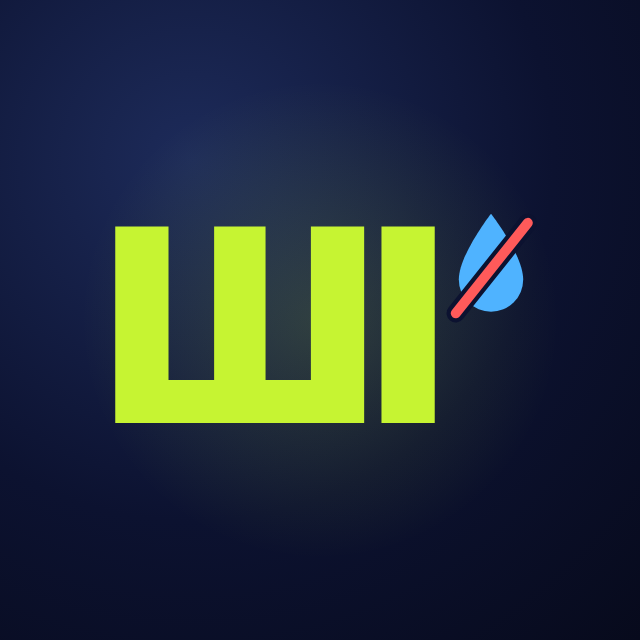
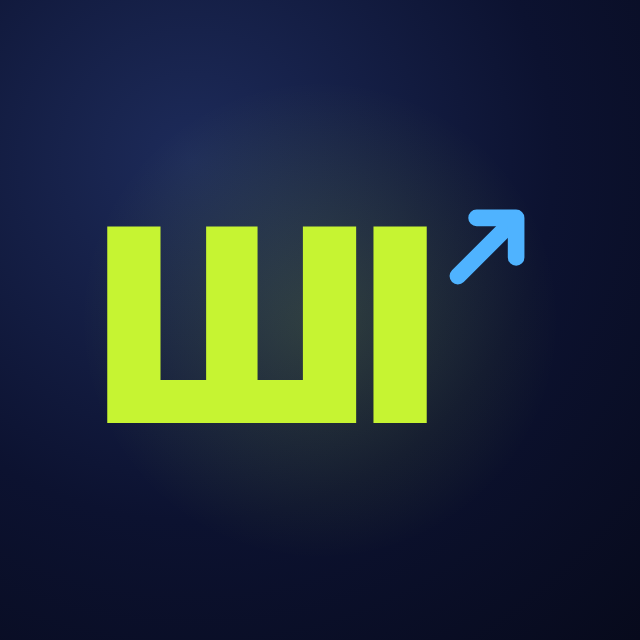
tg_channel: rename to «ШІ на старті», delete channel notices, neutral author voice
- «ШІ без води» is taken six times over (a Ukrainian channel of that exact name and five
  Russian look-alikes); «ШІ на старті» is free and fits AI for study and the first job.
  New avatar: «ШІ» with a start arrow.
- The bot now reads channel posts too and deletes the notices Telegram adds when it renames
  the channel, changes the photo or pins a post.
- The post check flags the author's gendered past tense («я прогнав») and «в мене теж»
  outside prompts and quoted results; posts use «🧪 Прогін» / «🧪 Результат» instead.

Claude-Session: https://claude.ai/code/session_01X4qXufjmXj39zcBvGQ1f5r

diff --git a/tg_content/avatar.html b/tg_content/avatar.html
@@ -3,15 +3,14 @@ html,body{margin:0;padding:0}
 .v{width:640px;height:640px;position:relative;overflow:hidden;font-family:'Inter';display:flex;align-items:center;justify-content:center;
  background:radial-gradient(circle at 30% 25%,#1d2b5a 0%,#0c1230 55%,#070a1c 100%);}
 .glow{position:absolute;inset:60px;border-radius:50%;background:radial-gradient(circle,rgba(198,244,50,.16),rgba(198,244,50,0) 65%)}
-.row{position:relative;display:flex;align-items:flex-start;gap:6px;margin-top:10px}
+.row{position:relative;display:flex;align-items:flex-start;gap:4px;margin-top:10px;margin-left:-6px}
 .t{font-weight:900;font-size:270px;letter-spacing:-8px;color:#c6f432;line-height:.74}
-.drop{width:92px;height:116px;margin-top:-18px}
+.arr{width:104px;height:104px;margin-top:-30px}
 </style></head><body><div class="v" id="v">
 <div class="glow"></div>
 <div class="row"><div class="t">ШІ</div>
-<svg class="drop" viewBox="0 0 120 150">
- <path d="M60 8 C60 8 18 62 18 94 a42 42 0 0 0 84 0 C102 62 60 8 60 8 Z" fill="#4fb3ff"/>
- <line x1="14" y1="138" x2="108" y2="20" stroke="#0c1230" stroke-width="24" stroke-linecap="round"/>
- <line x1="14" y1="138" x2="108" y2="20" stroke="#ff5a5a" stroke-width="13" stroke-linecap="round"/>
+<svg class="arr" viewBox="0 0 100 100">
+ <path d="M22 78 L74 26" stroke="#4fb3ff" stroke-width="16" stroke-linecap="round"/>
+ <path d="M40 22 L78 22 L78 60" fill="none" stroke="#4fb3ff" stroke-width="16" stroke-linecap="round" stroke-linejoin="round"/>
 </svg></div>
 </div></body></html>

diff --git a/tg_channel/bot.py b/tg_channel/bot.py
@@ -114,7 +114,7 @@ class Bot:
         self._replied: set[int] = set()              # one reply per chat per run, however many /start were sent
         try:
             updates = self.tg.call("getUpdates", offset=self.state["offset"], timeout=0,
-                                   allowed_updates=["message", "callback_query"])
+                                   allowed_updates=["message", "callback_query", "channel_post"])
         except TelegramError as e:
             self.report["errors"].append(str(e))
             return
@@ -125,6 +125,8 @@ class Bot:
                 self.on_button(u["callback_query"])
             elif "message" in u:
                 self.on_message(u["message"])
+            elif "channel_post" in u:
+                self.on_channel_post(u["channel_post"])
 
     def on_message(self, msg: dict) -> None:
         if (msg.get("chat") or {}).get("type") != "private" or not str(msg.get("text", "")).startswith(("/start", "/status")):
@@ -155,6 +157,18 @@ class Bot:
         else:
             text = "Це службовий бот каналу."
         self._quiet("sendMessage", chat_id=msg["chat"]["id"], text=text, parse_mode="HTML")
+
+    SERVICE = ("new_chat_title", "new_chat_photo", "delete_chat_photo", "pinned_message")
+
+    def on_channel_post(self, post: dict) -> None:
+        """The notices Telegram adds when the bot renames the channel, changes its photo or pins a post: deleted, so
+        the channel's feed shows only posts."""
+        chat = post.get("chat") or {}
+        ours = chat.get("id") == self.state["channel"].get("id") or (
+            self.channel and f"@{chat.get('username', '')}".lower() == str(self.channel).lower())
+        if ours and any(k in post for k in self.SERVICE):
+            self._quiet("deleteMessage", chat_id=chat["id"], message_id=post.get("message_id"))
+            self.report.setdefault("deleted_notices", []).append(post.get("message_id"))
 
     def on_button(self, cq: dict) -> None:
         sender, data = (cq.get("from") or {}).get("id"), str(cq.get("data", ""))

diff --git a/tests/test_tg_channel.py b/tests/test_tg_channel.py
@@ -557,3 +557,27 @@ def test_snowball_follows_channels_the_seeds_link_to(tmp_path):
     names = [c["name"] for c in result["channels"]]
     assert names == ["aaaa", "bbbb", "popular"]                         # «single» is linked by one channel only
     assert result["channels"][2]["found_via"] == "linked by 2 studied channels"
+
+
+def test_author_voice_hints_are_caught_outside_prompts_and_quotes(tmp_path):
+    body = ("---\nrubric: prompt\n---\n<b>Промпт дня</b>\n\nЯ прогнав його на прикладі, і в мене теж вийшло.\n"
+            "<pre>Задай питання, на яке я відповів найслабше</pre>\n<blockquote>Я підготувала звіт</blockquote>\n"
+            "🧪 Прогін: перевіряю на трьох прикладах.\n#промпт\n")
+    _write(tmp_path, "0001-a.md", body)
+    problems = " | ".join(feed.load(tmp_path)[0].problems)
+    assert "«я прогнав»" in problems and "«в мене теж»" in problems
+    assert "відповів" not in problems and "підготувала" not in problems and "перевіряю" not in problems
+
+
+def test_rename_and_photo_notices_in_the_channel_are_deleted():
+    tg, state = FakeTG(), empty_state()
+    state["channel"] = {"ref": CHANNEL, "id": -100123}
+    tg.updates += [
+        {"update_id": 1, "channel_post": {"message_id": 7, "chat": {"id": -100123}, "new_chat_title": "Нова назва"}},
+        {"update_id": 2, "channel_post": {"message_id": 8, "chat": {"id": -100123}, "new_chat_photo": [{}]}},
+        {"update_id": 3, "channel_post": {"message_id": 9, "chat": {"id": -100123}, "text": "звичайний пост"}},
+        {"update_id": 4, "channel_post": {"message_id": 3, "chat": {"id": -100999}, "new_chat_title": "чужий"}},
+    ]
+    feed_bot(tg, state, []).run(utc("2026-11-13T08:00:00"), fetch)
+    assert [(p["chat_id"], p["message_id"]) for m, p in tg.calls if m == "deleteMessage"] == [(-100123, 7), (-100123, 8)]
+    assert state["offset"] == 5

diff --git a/tg_channel/feed.py b/tg_channel/feed.py
@@ -183,6 +183,17 @@ def _bare(chunk: str) -> list[str]:
     return out
 
 
+# The author's «я» in the past tense has a gender in Ukrainian («я прогнав / прогнала») and says who writes the channel;
+# so does «в мене теж». Prompts (<pre>) and quoted results (<blockquote>) speak for the reader or the example.
+AUTHOR_HINTS = re.compile(r"(?<![\w'ʼ])я\s+(?:[а-яіїєґʼ'-]+\s+)?[а-яіїєґʼ'-]{2,}(?:в|ла)(?![\w'ʼ])"
+                          r"|(?:в|у) мене теж|як і я(?![\w'ʼ])", re.I)
+
+
+def author_hints(text: str) -> list[str]:
+    own = re.sub(r"<(pre|blockquote)\b[^>]*>.*?</\1>", " ", text, flags=re.S | re.I)
+    return sorted({m[0].lower() for m in AUTHOR_HINTS.finditer(visible(own))})
+
+
 def check(post: Post) -> list[str]:
     out = []
     if post.rubric not in RUBRICS:
@@ -214,6 +225,8 @@ def check(post: Post) -> list[str]:
         out.append("empty post")
         return out
     out += html_problems(post.text)
+    out += [f"«{h}» tells who writes the channel: use «🧪 Прогін», «🧪 Результат» or the present tense"
+            for h in author_hints(post.text)]
     n = len(visible(post.text))
     if n > TEXT_MAX:
         out.append(f"too long: {n} characters, at most {TEXT_MAX}")

diff --git a/tg_content/posts/0009-interview-practice.md b/tg_content/posts/0009-interview-practice.md
@@ -14,11 +14,11 @@ rubric: career
 - Після 6 питань: 3 мої сильні сторони і 3 речі, які треба підтягнути.
 Почни з першого питання.</pre>
 
-<b>Що вийшло в мене</b> (Junior Python Developer, моя навмисно слабка відповідь: «не встигав, попросив ще два дні і доробив»):
+<b>🧪 Прогін</b> (Junior Python Developer, навмисно слабка відповідь: «не встигав, попросив ще два дні і доробив»):
 <blockquote>Добре: ти чесно визнав проблему і довів задачу до кінця.
 Бракує за STAR: ситуація і задача розмиті. Що за проєкт і за яку частину ти відповідав? Немає результату: чи вплинула затримка на команду?
 "Попросив ще два дні" звучить пасивно. Розкажи, коли ти помітив ризик, кого попередив і що запропонував.</blockquote>
 
-💡 Після останнього питання напиши: «Задай ще раз питання, на яке я відповів найслабше, але сформулюй його інакше». Друга спроба покаже, чи ти справді засвоїв фідбек.
+💡 Після останнього питання напиши: «Задай ще раз питання, на яке моя відповідь була найслабшою, але сформулюй його інакше». Друга спроба покаже, чи ти справді засвоїв фідбек.
 
 #робота

diff --git a/tg_content/posts/0012-exam-quiz.md b/tg_content/posts/0012-exam-quiz.md
@@ -15,7 +15,7 @@ rubric: study
 - Після кожної відповіді скажи, правильно чи ні, і процитуй рядок з конспекту, який це підтверджує.
 - В кінці: список моїх помилок і 5 карток «питання — відповідь» для повторення через 2–3 дні.</pre>
 
-<b>Що вийшло в мене</b> на короткому конспекті про Центральну Раду й універсали. На питання «Який універсал проголосив незалежність УНР?» я навмисно відповів «III»:
+<b>🧪 Прогін</b> на короткому конспекті про Центральну Раду й універсали. На питання «Який універсал проголосив незалежність УНР?» відповідь навмисно хибна: «III»:
 <blockquote>Неправильно. Правильна відповідь: IV Універсал. У конспекті: "IV Універсал (січень 1918) проголосив незалежність УНР". III Універсал проголосив УНР, але у федерації з Росією.</blockquote>
 
 💡 Через 2–3 дні відкрий новий чат, встав ці 5 карток і попроси спитати їх у випадковому порядку. Що провалив удруге, те перечитай у підручнику. І якщо чат не може процитувати рядок з конспекту, таке питання пропускай.

diff --git a/tg_content/posts/0019-linkedin-junior.md b/tg_content/posts/0019-linkedin-junior.md
@@ -8,7 +8,7 @@ rubric: career
 <pre>Ти рекрутер, який шукає джунів у LinkedIn. Допоможи оформити мій профіль.
 Ціль: [посада, яку шукаю]
 Попередній досвід: [ким працював до IT і скільки]
-Навички і проєкти: [що вмію, що зробив]
+Навички і проєкти: [що вмію, що вже є в портфоліо]
 
 Зроби:
 1. 3 варіанти заголовка до 15 слів: роль + 2–3 навички + що я приношу з минулої роботи.
@@ -17,7 +17,7 @@ rubric: career
 4. Не вигадуй навичок, проєктів і планів, яких немає вище.
 Мова: [українська / англійська].</pre>
 
-<b>Я прогнав його</b> для вигаданої світчерки: 4 роки в бухгалтерії, курси QA, навчальний проєкт з тестування інтернет-магазину. Мова англійська:
+<b>🧪 Прогін</b> для вигаданої світчерки: 4 роки в бухгалтерії, курси QA, навчальний проєкт з тестування інтернет-магазину. Мова англійська:
 <blockquote>Junior QA Engineer | Manual Testing, Test Cases, Jira, SQL | 4 years in accounting: I check every number twice
 
 In accounting, one wrong number could break a whole report. So I learned to check everything twice and write down what I find. In testing I do the same.</blockquote>

diff --git a/tg_content/posts/0007-myth-ai-truth.md b/tg_content/posts/0007-myth-ai-truth.md
@@ -3,7 +3,7 @@ rubric: myth
 ---
 <b>Міф: ШІ знає все і каже правду</b>
 
-Мовна модель не дістає факти з довідника. Вона складає текст, який звучить правдоподібно. Тому інколи впевнено вигадує цифри, цитати, назви книжок і посилання на статті, яких не існує. Це називають галюцинаціями. Вони трапляються в ChatGPT, Gemini, Claude і в мене теж. Навіть із пошуком модель може переказати джерело неточно.
+Мовна модель не дістає факти з довідника. Вона складає текст, який звучить правдоподібно. Тому інколи впевнено вигадує цифри, цитати, назви книжок і посилання на статті, яких не існує. Це називають галюцинаціями. Вони трапляються в ChatGPT, Gemini і Claude. Навіть із пошуком модель може переказати джерело неточно.
 
 Тон нічого не каже про точність: вигадку модель подає так само впевнено, як правду.
 

diff --git a/CLAUDE.md b/CLAUDE.md
@@ -12,7 +12,7 @@ questions ("не запитуй, а роби").
 | `niche_mcp` | the same as an MCP server (stdio) | `python -m niche_mcp` | README section 4 |
 | `sleep_voice` | long, calm sleep narration (Kokoro TTS, free) | `python -m sleep_voice …` | README section 7 |
 | `content_agent` | video maker: narrated explainers, fast gameplay Shorts, mod reviews | `python -m content_agent …` | README section 8, `docs/CONTENT_AGENT.md`, `docs/GAMEPLAY_EDITING.md` |
-| `tg_channel` | Telegram channel «ШІ без води» (AI and IT in Ukrainian): publishes `tg_content/posts/` twice a day; a GitHub Actions writer adds the next week when the queue runs low; free-games mode behind `TG_GIVEAWAYS=1` | `python -m tg_channel run` / `queue` | README section 9, `tg_content/GUIDE.md`, `.github/workflows/tg-bot.yml`, `tg-content.yml` |
+| `tg_channel` | Telegram channel «ШІ на старті» (AI and IT in Ukrainian): publishes `tg_content/posts/` twice a day; a GitHub Actions writer adds the next week when the queue runs low; free-games mode behind `TG_GIVEAWAYS=1` | `python -m tg_channel run` / `queue` | README section 9, `tg_content/GUIDE.md`, `.github/workflows/tg-bot.yml`, `tg-content.yml` |
 
 **content-maker** is the autonomous producer on top of `content_agent`:
 - **Director prompt:** `.claude/agents/content-maker.md`.

diff --git a/tg_content/posts/0003-cv-for-vacancy.md b/tg_content/posts/0003-cv-for-vacancy.md
@@ -16,7 +16,7 @@ rubric: career
 3. Жорстке правило: не додавай навичок, інструментів і досвіду, яких немає в моєму тексті. Усе, чого бракує, винеси в окремий список «Чого бракує».
 Формат: таблиця ключових слів, потім нові пункти досвіду, потім список.</pre>
 
-<b>Я прогнав його</b> на вигаданій вакансії Junior QA і резюме після курсів та роботи адміністратором кав'ярні:
+<b>🧪 Прогін</b> на вигаданій вакансії Junior QA і резюме після курсів та роботи адміністратором кав'ярні:
 <blockquote>Тест-кейси, Jira, Postman і SQL у резюме не згадані, тому я їх не додаю. Якщо ти з ними працював(-ла), напиши де, і я впишу.
 Було: "навчання нових працівників". Стало: "Навчив(-ла) [уточнити: скільки] нових працівників кав'ярні за [уточнити: термін]".</blockquote>
 

diff --git a/tg_content/posts/0023-raise-talk.md b/tg_content/posts/0023-raise-talk.md
@@ -15,7 +15,7 @@ rubric: career
 3. Потім зіграй керівника: по одному запереченню, чекай моєї відповіді, кажи, де я звучу невпевнено або тисну.
 Без конкретних сум.</pre>
 
-<b>Що вийшло в мене</b> на вигаданій QA-інженерці (автотести, онбординг новачків, релізи; бюджет ще не затвердили):
+<b>🧪 Прогін</b> на вигаданій QA-інженерці (автотести, онбординг новачків, релізи; бюджет ще не затвердили):
 <blockquote>Заперечення: "Бюджет ще не затверджений".
 Відповідь: "Розумію. Тоді пропоную зафіксувати мої результати зараз і повернутися до розмови, коли бюджет затвердять. Коли це орієнтовно буде?"
 Аргумент 1 поки слабкий: "налаштувала автотести" не показує користі. Додай, скільки годин на тиждень це звільнило команді.</blockquote>

diff --git a/tg_content/posts/0006-feynman-method.md b/tg_content/posts/0006-feynman-method.md
@@ -16,7 +16,7 @@ rubric: study
 
 Моє пояснення: [текст]</pre>
 
-<b>Що вийшло в мене.</b> Пояснення було навмисно коротке: «DNS як телефонна книга інтернету: браузер питає DNS-сервер, той дає IP, браузер іде на цей IP».
+<b>🧪 Результат.</b> Пояснення було навмисно коротке: «DNS як телефонна книга інтернету: браузер питає DNS-сервер, той дає IP, браузер іде на цей IP».
 <blockquote>Ти кажеш "DNS-сервер дає IP", але звідки браузер знає, якого саме сервера питати? І чи завжди сервер знає відповідь сам?
 Питання: чому вдруге той самий сайт відкривається швидше? Що буде, якщо хтось підмінить запис у "телефонній книзі"?</blockquote>
 
